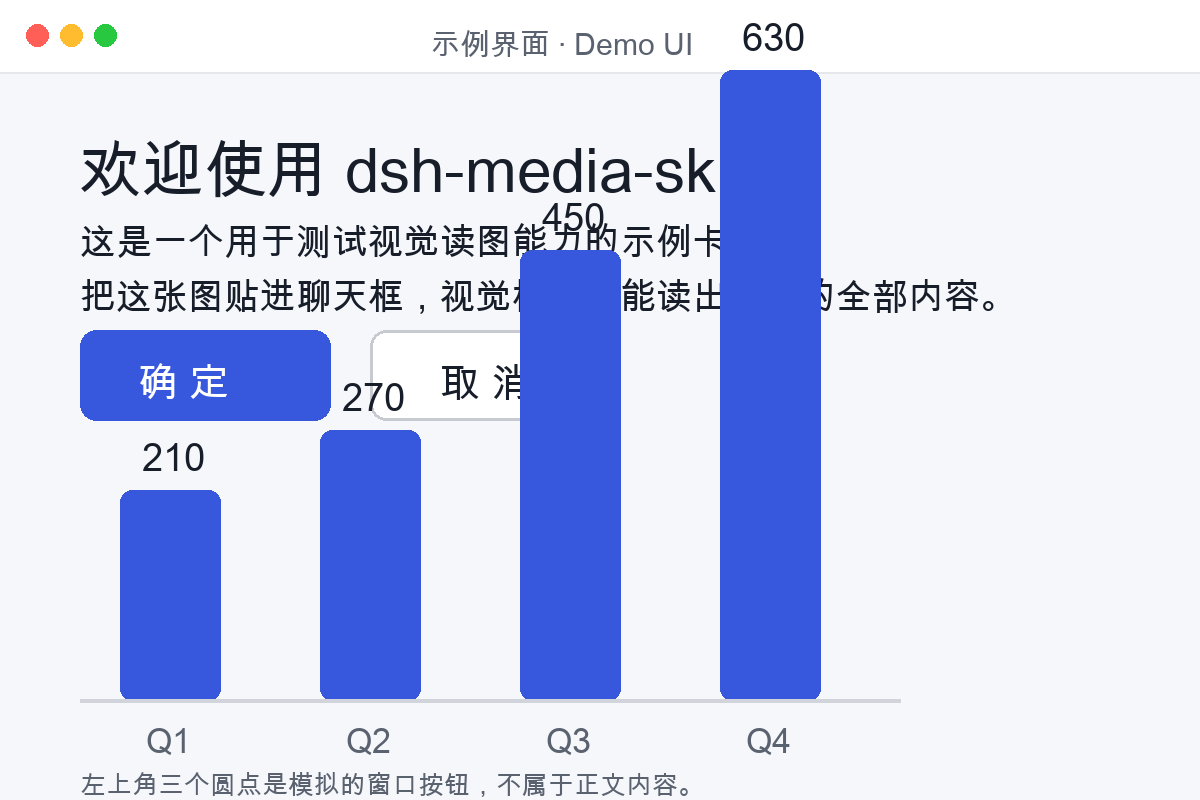
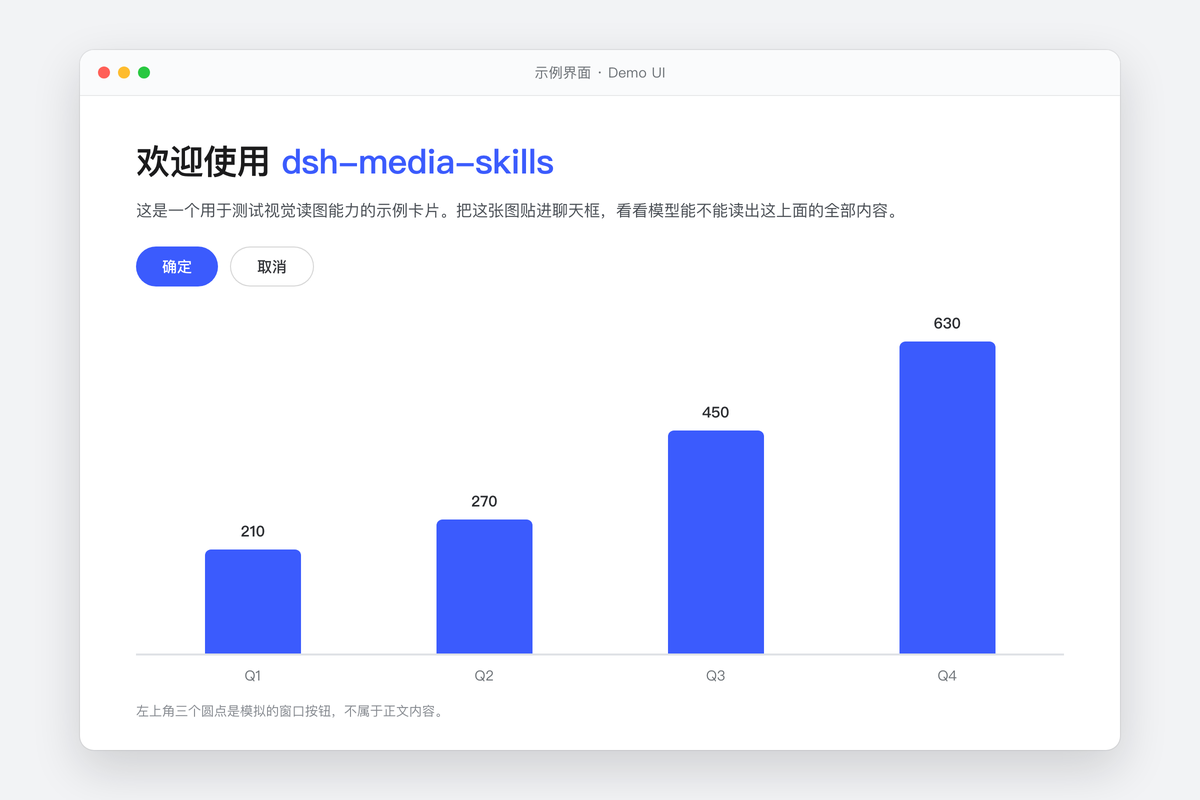
docs: rebuild the vision test card as a clean render, and put it on its own line (0.6.4)

diff --git a/README.md b/README.md
@@ -102,7 +102,7 @@ Same thing from a terminal, if you prefer:
 dsh plugin --profile desktop add dsh-media-skills
 ```
 
-`latest` is the current release; pin a version (`dsh-media-skills@0.6.3`) if you need to. The GitHub form still works: `add github:MJorgin/dsh-media-skills`.
+`latest` is the current release; pin a version (`dsh-media-skills@0.6.4`) if you need to. The GitHub form still works: `add github:MJorgin/dsh-media-skills`.
 
 **2. Restart the app** (⌘Q, then open it again). Plugins load at boot — a newly installed page will not appear until you restart. The sidebar then shows a new row: **创作**.
 
@@ -163,7 +163,11 @@ Because rows are models, not providers: if only one provider has a key, only its
 
 Six AI-generated images with their prompts, plus a vision test card for checking reading accuracy:
 
-<img src="examples/generated/fox-forest.jpg" width="30%"> <img src="examples/generated/cat-astronaut.jpg" width="30%"> <img src="examples/vision-test-card.png" width="30%">
+<img src="https://raw.githubusercontent.com/MJorgin/dsh-media-skills/main/examples/generated/fox-forest.jpg" width="30%"> <img src="https://raw.githubusercontent.com/MJorgin/dsh-media-skills/main/examples/generated/cat-astronaut.jpg" width="30%">
+
+The vision test card — title, two buttons, four bar values and a footer note:
+
+<img src="https://raw.githubusercontent.com/MJorgin/dsh-media-skills/main/examples/vision-test-card.png" width="58%">
 
 → [examples/README.md](examples/README.md)
 

diff --git a/docs/lang/README_ZH_TW.md b/docs/lang/README_ZH_TW.md
@@ -160,7 +160,11 @@ GEMINI_API_KEY=...   # 選用
 
 可立即試用的範例素材——6 張 AI 生成圖片及其提示詞，加上一張專為檢查讀取準確度設計的視覺測試卡（標題、按鈕、長條圖數值）：
 
-<img src="../../examples/generated/fox-forest.jpg" width="30%"> <img src="../../examples/generated/cat-astronaut.jpg" width="30%"> <img src="../../examples/vision-test-card.png" width="30%">
+<img src="https://raw.githubusercontent.com/MJorgin/dsh-media-skills/main/examples/generated/fox-forest.jpg" width="30%"> <img src="https://raw.githubusercontent.com/MJorgin/dsh-media-skills/main/examples/generated/cat-astronaut.jpg" width="30%">
+
+讀圖測試卡——標題、兩個按鈕、四個柱狀圖數值與底部註文：
+
+<img src="https://raw.githubusercontent.com/MJorgin/dsh-media-skills/main/examples/vision-test-card.png" width="58%">
 
 → [../../examples/README.md](../../examples/README.md)
 

diff --git a/docs/lang/README_ZH.md b/docs/lang/README_ZH.md
@@ -176,7 +176,11 @@ GEMINI_API_KEY=...   # 可选
 
 开箱即用的示例素材——6 张 AI 生成图（附提示词）+ 一张专门构造的读图测试卡（标题、按钮、柱状图数值，用于检验读图准确度）：
 
-<img src="../../examples/generated/fox-forest.jpg" width="30%"> <img src="../../examples/generated/cat-astronaut.jpg" width="30%"> <img src="../../examples/vision-test-card.png" width="30%">
+<img src="https://raw.githubusercontent.com/MJorgin/dsh-media-skills/main/examples/generated/fox-forest.jpg" width="30%"> <img src="https://raw.githubusercontent.com/MJorgin/dsh-media-skills/main/examples/generated/cat-astronaut.jpg" width="30%">
+
+读图测试卡——标题、两个按钮、四个柱状图数值和底部注文：
+
+<img src="https://raw.githubusercontent.com/MJorgin/dsh-media-skills/main/examples/vision-test-card.png" width="58%">
 
 → [examples/README.md](../../examples/README.md)
 
